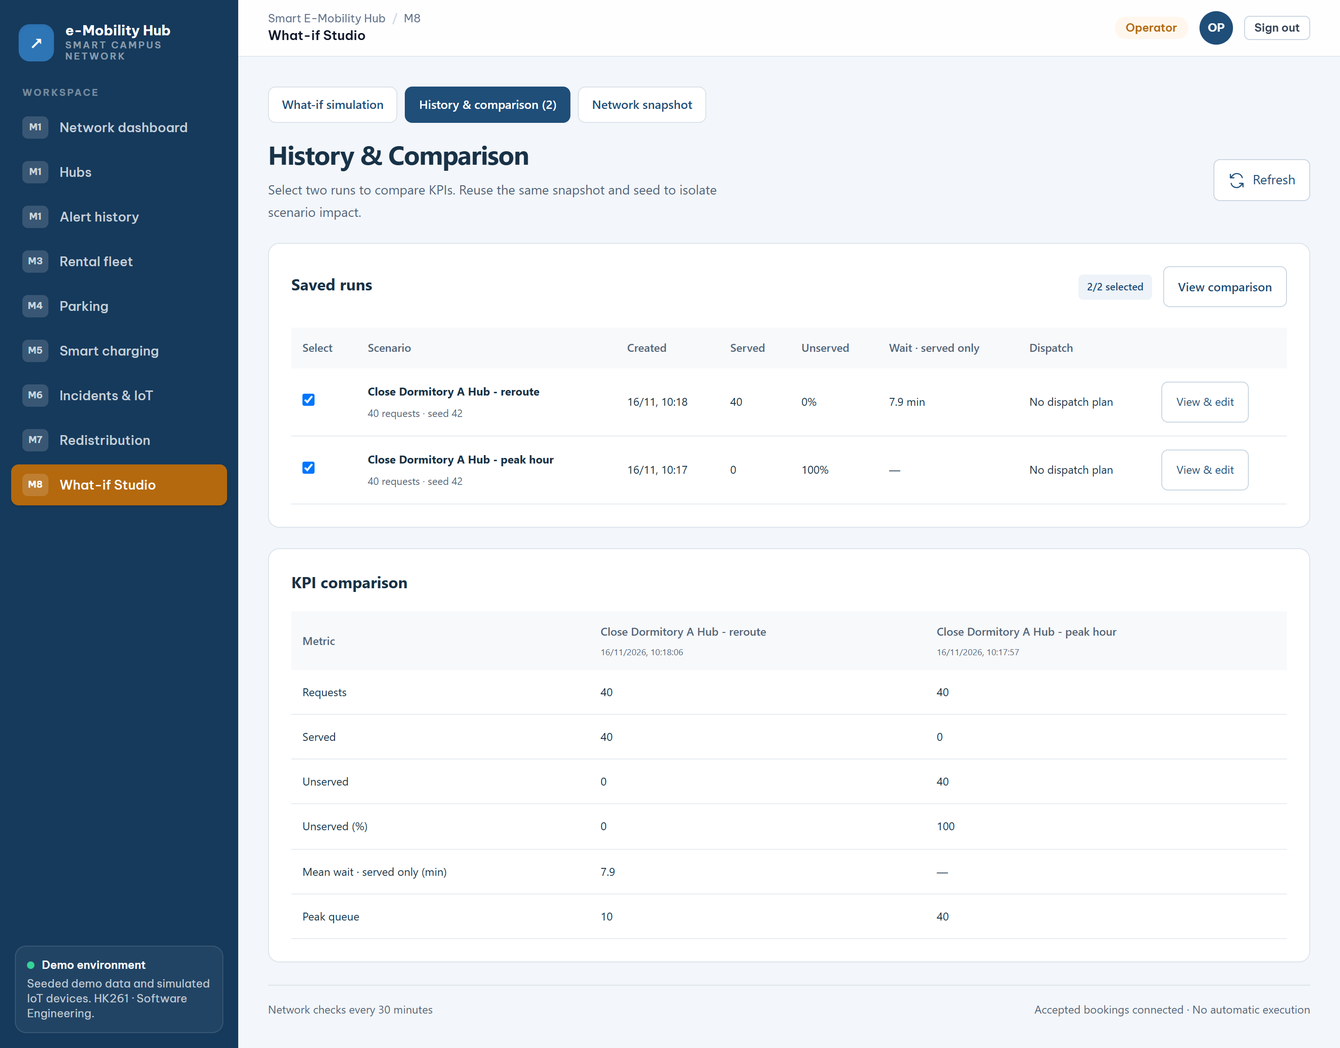
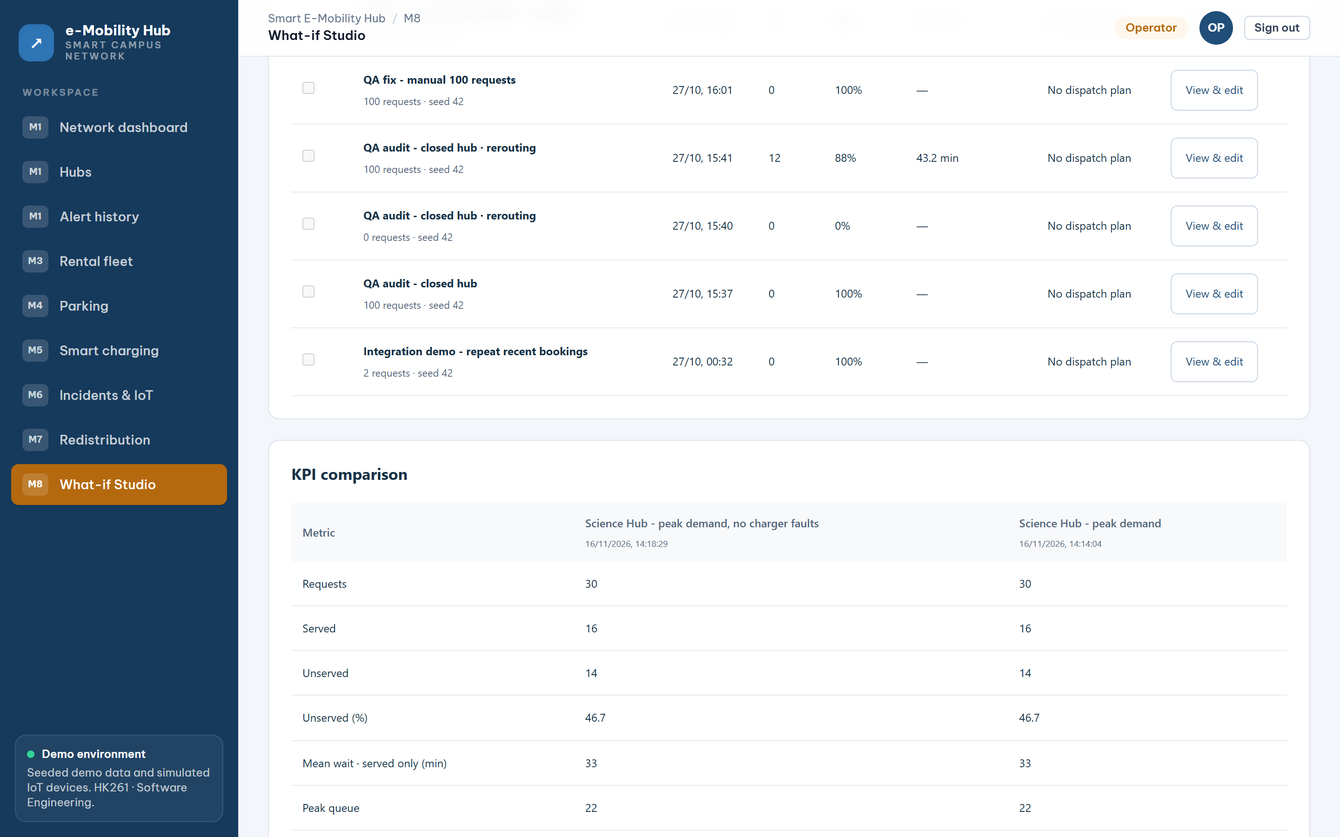
[DOCS][M8] Describe the parking and charging scenarios and refresh M8 figures
- Runbook: the three new per-hub scenarios, their KPIs and limits, the dispatch limit by
  free rental-bike spaces, the Apply flow with its states and error codes, both provider
  timeouts and the current test counts.
- module-contracts, demo script, SETUP and screenshot notes aligned with the current UI
  labels and behavior.
- Diagrams regenerated from m8.py: new HubSettings and Kpi fields, charging advice,
  parking and charging in the activity flow, proposal changes made directly in M7.
- M8 screenshots recaptured with the AI provider configured and parking and charging
  demand in the run; capture hints updated.

diff --git a/docs/tools_for_figures/python/m8/m8.py b/docs/tools_for_figures/python/m8/m8.py
@@ -3,8 +3,8 @@ sys.path.insert(0, os.path.join(os.path.dirname(os.path.abspath(__file__)), '..'
 from lib import *
 O=png_dir('m8')
 usecase(O+'m8_usecase.png','«subsystem» M8 — What-if Simulation',
- [('UC-M8-01','Prepare a scenario|(describe or edit)'),('UC-M8-06','Validate the|scenario'),('UC-M8-02','Run a simulation|on a snapshot'),
-  ('UC-M8-03','Review and compare|saved runs'),('UC-M8-04','Review recommendations|(discard / send to M7)'),('UC-M8-05','Check recent booking|volume every 30 min')],
+ [('UC-M8-01','Prepare a scenario|(rentals, parking, charging,|failed chargers)'),('UC-M8-06','Validate the|scenario'),('UC-M8-02','Run a simulation|on a snapshot'),
+  ('UC-M8-03','Review and compare|saved runs'),('UC-M8-04','Review recommendations|(discard / send dispatch to M7)'),('UC-M8-05','Check recent booking|volume every 30 min')],
  left=[('op','Operator',False),('tm','Timer',True)], right=[('ai','AI provider (optional)',True),('m7','M7 Redistribution',True),('own','M1–M4 data',True)],
  assoc=[('op','UC-M8-01'),('op','UC-M8-02'),('op','UC-M8-03'),('op','UC-M8-04'),('tm','UC-M8-05'),('ai','UC-M8-01'),('ai','UC-M8-02'),('m7','UC-M8-04'),('own','UC-M8-02'),('own','UC-M8-05')],
  rels=[('UC-M8-01','UC-M8-06','include'),('UC-M8-02','UC-M8-06','include'),('UC-M8-04','UC-M8-02','extend')], amber=('UC-M8-05',))
@@ -14,7 +14,7 @@ N['SimulationService']=klass('SimulationService','service',attrs=None,ops=['+run
 N['DispatchApplyService']=klass('DispatchApplyService','service, talks to M7',attrs=None,ops=['+apply(runId, recId, operator): Run','+discard(runId, recId, operator): Run','+sync(runs): List<Run>'])
 N['AgentPlanner']=klass('AgentPlanner','service, optional LLM tool loop',attrs=None,ops=['+extend(snapshot, scenario, previous): AgentState'])
 N['SimulationPlanTool']=klass('SimulationPlanTool','component',attrs=None,ops=['+evaluate(snapshot, scenario, actions): PlanEvaluation'])
-N['ScenarioAssistant']=klass('ScenarioAssistant','service, optional LLM (M8_LLM_*)',attrs=['-url, key, model: String'],ops=['+parse(text, snapshot): ParseResult','+validate(scenario, snapshot)','+recommend(snapshot, scenario, kpi, engine): Proposals','+toolChat(messages, tool): JsonNode'])
+N['ScenarioAssistant']=klass('ScenarioAssistant','service, optional LLM (M8_LLM_*)',attrs=['-url, key, model: String'],ops=['+parse(text, snapshot): ParseResult','+validate(scenario, snapshot)','+recommend(snapshot, scenario, kpi, engine): Proposals','+chargingAdvice(snapshot, scenario, kpi, engine): List<Recommendation>','+toolChat(messages, tool): JsonNode'])
 N['StartingFleet']=klass('StartingFleet','utility',attrs=None,ops=['~override(snapshot, startingVehicles): Snapshot'])
 N['SimulationEngine']=klass('SimulationEngine','component, pure function',attrs=None,ops=['+simulate(snapshot, scenario): EngineResult'])
 N['SnapshotProvider']=klass('SnapshotProvider','interface',attrs=None,ops=['+capture(): Snapshot'],**IFACE)
@@ -22,7 +22,7 @@ N['JdbcSnapshotProvider']=klass('JdbcSnapshotProvider','read-only, REPEATABLE_RE
 N['RedistributionRecommendations']=klass('RedistributionRecommendations','interface, shared.contracts (M7)',attrs=None,ops=['+propose(source, ref, from, to, amount, reason): String','+approve(id, operator): ApprovalResult','+decision(id): Decision','+withdraw(id, operator, reason): Decision'],**IFACE)
 N['RunStore']=klass('RunStore','JSON file, latest 200 runs',attrs=['-file: Path'],ops=['+save(run) / get(id) / list()'])
 N['NetworkMonitor']=klass('NetworkMonitor','@Scheduled every 30 min',attrs=['-state: State (volatile)'],ops=['+check()','+status(aiConfigured): Map'],**SCHED)
-N['SimulationModels']=klass('SimulationModels','immutable records',attrs=['Scenario(name, durationMins, seed, affectedHubs: HubSettings[])','HubSettings(hubId, disabled, closeFromMins, reopenAtMins,','  injectedRequests, arrivalWindowMins, tripMins, reroute, repeatBookings)','Snapshot(hubs, vehicles, deviceStates, bookingWindow, capacities, hypotheticalFleet)','Kpi(requests, served, failed, failurePercent, meanWaitMins, peakQueue, hubs)','Run(scenario, snapshot, kpi, baseline, timeline, recommendations, agent)','Recommendation(action, from, to, amount, status, projectedFailure%, dispatch)','DispatchProgress(tasks, message, m7RecommendationId)','AgentState(totalRounds, status, rounds, best)'],ops=None)
+N['SimulationModels']=klass('SimulationModels','immutable records',attrs=['Scenario(name, durationMins, seed, affectedHubs: HubSettings[])','HubSettings(hubId, disabled, closeFromMins, reopenAtMins,','  injectedRequests, arrivalWindowMins, tripMins, reroute, repeatBookings,','  parkingArrivals, parkingStayMins, chargingRequests, chargeMins, failedChargers)','Snapshot(hubs, vehicles, deviceStates, bookingWindow, capacities, hypotheticalFleet)','Kpi(requests, served, failed, failurePercent, meanWaitMins, peakQueue, hubs,','  parkingRequests, parkingServed, parkingTurnedAway,','  chargingRequests, chargingServed, chargingUnserved,','  meanChargingWaitMins, peakChargingQueue)','  +totalUnserved(): int','HubKpi(hubId, name, requests, served, failed, meanWaitMins, ..., parkingRequests,','  parkingTurnedAway, chargingRequests, chargingServed, chargingUnserved, usableChargers, ...)','Run(scenario, snapshot, kpi, baseline, timeline, recommendations, agent)','Recommendation(action: dispatch | charging_redirect, from, to, amount,','  status, projectedFailure%, dispatch)','DispatchProgress(tasks, message, m7RecommendationId)','AgentState(totalRounds, status, rounds, best)'],ops=None)
 T='hub, rental_vehicle, reservation, parking_space, redistribution_tasks, m1_resource_state'
 N['Tables']=klass(T,'tables of M1–M4, M7 (read only)',attrs=None,ops=None,**EXT)
 classdiagram(O+'m8_class.png',N,[('SimulationController','SimulationService','assoc'),('SimulationController','DispatchApplyService','assoc'),('SimulationController','NetworkMonitor','assoc'),
@@ -64,6 +64,9 @@ alt AI provider configured
 else no AI provider
   S->>A: recommend(snapshot, scenario, kpi, engine) with local rules
 end
+S->>A: chargingAdvice(snapshot, scenario, kpi, engine)
+A->>E: re-simulate with charging requests moved to another hub
+A-->>S: charging_redirect advice (display only, never applied)
 S->>R: save(run)
 S-->>OP: Run (KPI, baseline, proposals, warnings)
 OP->>C: POST /runs/:id/recommendations/:recId/apply
@@ -75,8 +78,8 @@ D->>R: save(run) as PENDING, PARTIAL or APPROVED
 OP->>C: GET /api/m8/runs (later)
 C->>D: sync(runs)
 D->>M7: decision(m7Id)
-M7-->>D: status, done and failed tasks
-D->>R: save(run) only if changed (APPLIED or DISCARDED)
+M7-->>D: status, done and failed tasks (also when the Operator decided in M7)
+D->>R: save(run) only if changed (APPROVED, PARTIAL, APPLIED or DISCARDED)
 Note over S,D: M8 never writes operational tables. M7 creates and runs the tasks
 ''', width=1900)
 
@@ -84,7 +87,7 @@ Note over S,D: M8 never writes operational tables. M7 creates and runs the tasks
 # ---------------------------------------------------------------- state: a proposal inside a saved run
 # A run is saved once; only the status of each proposal moves (DispatchApplyService follows M7's decision).
 statemachine(O+'m8_state.png',
- ['PENDING','NEEDS_REVIEW','PARTIAL','APPROVED','APPLIED','DISCARDED'],
+ ['PENDING','NEEDS_REVIEW','PARTIAL','APPROVED','APPLIED','DISCARDED',('M7decision','shape=diamond, style=filled, fillcolor="#fff1c9", color="#c9a227", fontsize=12, label="M7\\ndecision"')],
  [('PENDING','DISCARDED','discard / withdraw the M7 proposal,\\nor M7 rejected it'),
   ('PENDING','PENDING','apply / M7 could not\\ncreate a task yet'),
   ('PENDING','PARTIAL','apply / M7 created\\nsome tasks'),
@@ -95,33 +98,44 @@ statemachine(O+'m8_state.png',
   ('NEEDS_REVIEW','DISCARDED','discard, or M7 rejected'),
   ('PARTIAL','PARTIAL','apply again / more tasks'),
   ('PARTIAL','APPROVED','apply again /\\nremaining tasks created'),
-  ('APPROVED','APPLIED','list runs / every M7 task finished,\\nat least one vehicle arrived')],
+  ('APPROVED','APPLIED','list runs / every M7 task finished,\\nat least one vehicle arrived'),
+  ('PENDING','M7decision','list runs (sync): Operator\\ndecided directly in M7'),
+  ('PARTIAL','M7decision','list runs (sync)'),
+  ('NEEDS_REVIEW','M7decision','list runs (sync)'),
+  ('M7decision','APPROVED','approved'),
+  ('M7decision','PARTIAL','partly approved'),
+  ('M7decision','APPLIED','approved,\\ntasks done'),
+  ('M7decision','DISCARDED','rejected')],
  initial='PENDING', final=('APPLIED','DISCARDED'),
  extra='label=<<b>Proposal of a what-if run (M8)</b>>; labelloc=t; fontsize=16;',
  notes=['note [shape=note, style=filled, fillcolor="#fff6d5", color="#c9a227", fontname="DejaVu Sans", fontsize=11, '
         'label="Created with the run, always PENDING.\\nApply registers it with M7 (propose + approve);\\nM8 then follows M7 when runs are listed.\\nOnly dispatch proposals can be applied,\\nand not on an edited (hypothetical) fleet."];',
-        'note -> PENDING [style=dashed, arrowhead=none, color="#c9a227"];'])
+        'note -> PENDING [style=dashed, arrowhead=none, color="#c9a227"];',
+        'note2 [shape=note, style=filled, fillcolor="#fff6d5", color="#c9a227", fontname="DejaVu Sans", fontsize=11, '
+        'label="charging_redirect advice is display-only:\\nit never goes through Apply and M7 is not called.\\nIt stays PENDING until the Operator discards it\\n(PENDING -> DISCARDED)."];',
+        'note2 -> DISCARDED [style=dashed, arrowhead=none, color="#c9a227"];'])
 
 # ---------------------------------------------------------------- activity: from a description to a decision
 src=activity_header('What-if run: from a description to a decision (M8)')+f'''
 d1 [label="Describe\\nin words?", {DEC}];
 p [label="Parse: LLM if configured,\\notherwise local rules", {ACT}];
-f [label="Editable form: affected hubs,\\nclosing time, demand, rerouting", {ACT}];
+f [label="Editable form: affected hubs, closing time,\\nrental demand, rerouting, parking arrivals,\\ncharging requests, failed chargers", {ACT}];
 d2 [label="Fields valid?", {DEC}];
 d3 [label="Snapshot\\nsource?", {DEC}];
 c [label="Capture snapshot in one\\nREPEATABLE_READ read", {ACT}];
 r [label="Reuse the snapshot\\nof a saved run", {ACT}];
 m [shape=diamond, label="", width=0.3, height=0.3, style=filled, fillcolor="#ffffff"];
 fl [label="Apply edited vehicle counts\\n(optional, hypothetical fleet)", {ACT}];
-sim [label="Simulate scenario and baseline\\nminute by minute", {ACT}];
+sim [label="Simulate scenario and baseline minute by\\nminute: rentals, parking, charging queue", {ACT}];
 d5 [label="AI provider\\nconfigured?", {DEC}];
 ai [label="AI tests up to 3 dispatch plans\\nwith simulate_plan; keeps only\\nplans that reduce unserved requests", {ACT}];
-pr [label="Local rules: dispatch from a donor hub\\nthat keeps one vehicle and fits\\nrental-bike parking", {ACT}];
+pr [label="Local rules: dispatch from a donor hub\\nthat keeps one vehicle and fits rental-bike\\nparking; move rental vehicles out of a\\nparking-saturated hub", {ACT}];
+ca [label="Charging advice (display only): move charging\\nrequests to a hub with free chargers;\\nre-simulated, never applied", shape=box, style="rounded,filled", fillcolor="#fff1c9", color="#c9a227", penwidth=1.4];
 sv [label="Save the run (RunStore)", {ACT}];
-sh [label="Show KPIs, timeline, per-hub table,\\nproposals and assumptions", {ACT}];
+sh [label="Show KPIs (rentals, parking turned away,\\ncharging unserved, mean charging wait, peak\\ncharging queue), timeline, per-hub table,\\nproposals and assumptions", {ACT}];
 d4 [label="Next step?", {DEC}];
 cmp [label="History: select two runs,\\ncompare KPIs", {ACT}];
-dis [label="Proposal DISCARDED;\\nM7 proposal withdrawn", {ACT}];
+dis [label="Proposal DISCARDED; M7 proposal\\nwithdrawn if any. Charging advice\\ncan only be discarded", {ACT}];
 d6 [label="Live fleet?", {DEC}];
 ap [label="Send to M7: propose + approve;\\nM7 picks vehicles, creates tasks", {OK}];
 no [label="Refused: run again\\nwith the live fleet", {ERR}];
@@ -130,10 +144,10 @@ e {END};
 s -> d1; d1 -> p [label="yes"]; d1 -> f [label="no"]; p -> f; f -> d2; d2 -> f [label="no: field errors", constraint=false];
 d2 -> d3 [label="yes"]; d3 -> c [label="live"]; d3 -> r [label="saved run"]; c -> m; r -> m; m -> fl -> sim -> d5;
 d5 -> ai [label="yes"]; d5 -> pr [label="no"]; ai -> pr [label="provider failed,\\nno tested plan", style=dashed];
-ai -> sv; pr -> sv; sv -> sh -> d4;
+ai -> ca; pr -> ca; ca -> sv; sv -> sh -> d4;
 d4 -> f [label="edit and run again", constraint=false, style=dashed];
 d4 -> ai [label="retry AI: +3 rounds", constraint=false, style=dashed];
-d4 -> cmp [label="compare"]; d4 -> dis [label="discard"]; d4 -> d6 [label="apply"];
+d4 -> cmp [label="compare"]; d4 -> dis [label="discard"]; d4 -> d6 [label="apply (dispatch only)"];
 d6 -> ap [label="yes"]; d6 -> no [label="no"]; ap -> fw;
 cmp -> e; dis -> e; fw -> e; no -> e;
 {{rank=same; c; r}} {{rank=same; ai; pr}} {{rank=same; cmp; dis; d6}}

diff --git a/docs/runbooks/m8-local.md b/docs/runbooks/m8-local.md
@@ -21,12 +21,13 @@ https://api.openai.com/v1/chat/completions.
 Override using M8_LLM_URL, M8_LLM_KEY and M8_LLM_MODEL. Never use VITE_* for keys.
 
 The provider receives descriptions and, for recommendations, the snapshot and KPIs.
-Requests use JSON mode, bounded output and a 35-second timeout. Parameters are validated.
+Requests use JSON mode and bounded output. The timeout is 90 seconds for the responses endpoint
+(scenario extraction) and 35 seconds for chat completions (tool calls). Parameters are validated.
 Recommendations must pass resource/capacity checks and improve deterministic simulation results.
 Only dispatch proposals are recognized; rerouting stays an operator setting. AI cannot execute
 operational actions. When AI is configured, each run lets it test up to three dispatch plans with the
 simulate_plan tool on the saved snapshot; Retry adds three more rounds. Only plans that reduce
-unserved requests are kept.
+unserved requests (rental requests not served + parking turned away + unserved charging) are kept.
 Provider failures show sanitized status/error codes and fall back to labeled local rules.
 AI configured means credentials are loaded; it does not prove a call succeeded.
 A parser result marked AI confirms an actual successful provider response.
@@ -43,7 +44,21 @@ Reference: [OpenAI Structured Outputs](https://developers.openai.com/api/docs/gu
   as "Device state updates" with receive timestamps.
   These RAM observations are not transactionally synchronized with the database snapshot
   and do not overwrite authoritative M3 vehicle state in the engine.
-- Independently verified proposals and persistent Discard.
+- Independently verified proposals and persistent Discard. A proposal is kept only if it lowers the total of
+  unserved rental requests, parking turned away and unserved charging requests.
+- Per-hub parking and charging scenarios (section "Parking and charging at this hub"):
+  `parkingArrivals` and `parkingStayMins` (private vehicles arriving to park), `chargingRequests` and `chargeMins`
+  (charging sessions), `failedChargers` (chargers out of order for the whole horizon).
+  Parking, charging and failed chargers are hypothetical demand; leave the inputs at 0 to leave them out of a run.
+- Parking: each arrival takes a free space of the captured pool (used/free/total from the snapshot) and releases it after
+  the stay; with no free space it is turned away. Charging: requests queue first-come-first-served on chargers that are
+  operational, not busy and not failed.
+- KPIs added: parking requests, served and turned away; peak parking occupancy per hub; charging requests, served and
+  unserved; mean charging wait (served requests only); peak charging queue; usable chargers and charger utilization per hub.
+- The local rule can propose dispatching rental vehicles out of a parking-saturated hub. When charging requests go
+  unserved and another open hub has free chargers, the run also shows a `charging_redirect` recommendation:
+  advice to redirect charging requests to that hub. It is display only: Discard is available, Apply is refused
+  with NOT_APPLICABLE, and M5 is never changed.
 - Apply sends a dispatch proposal to M7 through `RedistributionRecommendations` (propose + approve).
   M7 picks the vehicles, checks parking and creates the tasks. Discard withdraws a pending M7 proposal.
   When runs are listed, M8 follows M7: a rejected proposal becomes DISCARDED, and an approved one
@@ -68,17 +83,37 @@ Reference: [OpenAI Structured Outputs](https://developers.openai.com/api/docs/gu
 - Only AVAILABLE vehicles with battery >=20% serve requests; full M2 reservation behavior is not modeled.
 - Accepted bookings are not total demand: rejected attempts and searches are excluded.
   Cancelled or completed bookings still count as historical accepted arrivals.
-- Each trip holds a vehicle for tripMins, then returns to its origin; no charging or battery depletion.
+- Each trip holds a vehicle for tripMins, then returns to its origin; no battery depletion.
 - A hub can be closed from a given minute and optionally reopened. Rerouting (only during a
   closure) picks available hubs by ID without travel time.
 - Requests still waiting at the horizon count as failed. Mean wait includes served requests only.
-- Parking reservations, charging schedules, dispatch travel and ongoing-trip arrivals are not modeled.
+- Parking reservations, travel time, dispatch travel and ongoing-trip arrivals are not modeled.
+- Rental trips do not change the parking pool, and charging does not change vehicle batteries.
+- Validation limits per hub: injected requests 0-10000; arrival window 1-1440 min; trip 1-240 min;
+  parking arrivals 0-10000; parking stay 0-1440 min; charging requests 0-10000; charge duration 0-480 min;
+  failed chargers 0-1000. A stay (or charge duration) of at least 1 minute is required when parking arrivals
+  (or charging requests) are set, parking arrivals need parking data for the hub in the snapshot, and failed chargers
+  cannot exceed the hub's operational chargers.
 - The baseline holds demand, seed and rerouting fixed and reopens the affected hub.
 - Dispatch projections assume vehicles moved before the run. Separate proposals are not additive.
+- Dispatch is limited by the captured free rental-bike spaces at the destination minus incoming M7 tasks.
+  Without that observation the dispatch proposal cannot be applied (RENTAL_PARKING_UNKNOWN); rerouting is unaffected.
 
 History is atomically saved in backend/.local/m8/runs.json, retaining the latest 200 runs.
 This single-process file store is temporary, pending TV4's approved M8 database schema.
 English display labels for seeded hubs do not change live Hub rows.
+
+## Applying a dispatch proposal
+
+Buttons: Review dispatch (opens a confirmation), Create M7 tasks (sends the proposal to M7),
+View M7 recommendation (opens it in M7) and Discard. Charging redirect advice shows Discard only.
+Recommendation states: PENDING (history label "Not applied"), NEEDS_REVIEW ("Needs review": the M7 approval was not
+confirmed; check M7), PARTIAL ("Partly dispatched": only some tasks were created), APPROVED ("Approved in M7"),
+APPLIED ("Completed in M7") and DISCARDED ("Discarded").
+Apply returns HTTP 409 with these codes: HYPOTHETICAL_FLEET (run used edited vehicle counts),
+DISPATCH_REVIEW_REQUIRED (another proposal of the run is NEEDS_REVIEW), NOT_APPLICABLE (not a pending dispatch)
+and RENTAL_PARKING_UNKNOWN (no rental-bike parking observation for the destination).
+Discard returns ALREADY_RESOLVED when the proposal is already resolved.
 
 ## Handoff
 
@@ -95,11 +130,17 @@ English display labels for seeded hubs do not change live Hub rows.
 
 From backend, invoke Maven with -B verify. From frontend, run npm.cmd run build.
 Tests cover repeatability/conservation, closure, rerouting, battery eligibility, zero demand,
-restart persistence, bounds, M8 roles, recommendation feasibility and M3 user-ID spoof prevention.
+restart persistence, bounds, M8 roles, recommendation feasibility, parking and charging scenarios,
+dispatch apply states and M3 user-ID spoof prevention.
+
+## Latest verification (16 November 2026)
+
+- Backend `mvn test`: 330 tests, 0 failures (92 in the M8 package, 13 test classes).
+- Frontend Vitest: 47 tests passed. `npm run build` passes.
 
 ## Local verification — 27 October 2026
 
-- Backend Maven verify passed 88 tests. V10, V11 and V20 are applied to the existing
+- Backend Maven verify passed. V10, V11 and V20 are applied to the existing
   PostgreSQL volume. No database volume was reset.
 - Frontend TypeScript and production build passed after the compact navigation and
   SockJS fixes. Browser verification covered M1 live connection, M8 booking volume,
@@ -130,18 +171,18 @@ M8 history is file-backed.
 - Draft changes mark the previous KPIs/recommendations as results from the previous run.
   Editing or changing context clears obsolete success/error notices.
 - KPI comparison scrolls within its own region; long scenario headings can wrap.
-- Dispatch projections respect the smaller of assigned-vehicle headroom and captured M1
-  free parking (also bounded by total minus used). Historical snapshots without occupancy
-  observations cannot produce new dispatch proposals. Rerouting remains available.
+- Dispatch projections respect the captured free rental-bike spaces at the destination minus
+  incoming M7 tasks. Historical snapshots without that observation cannot produce new dispatch
+  proposals or be applied. Rerouting remains available.
   This is a conservative simulation guard, not authoritative M4 parking approval.
   Previously saved recommendations retain their historical results and limitations.
 
 Regression checks: frontend scenario-draft tests; backend RecommendationTest covers a
 40-space destination with zero/one observed spaces and no assigned rentals, plus missing
-observations. M7 execution and M8 database persistence remain pending.
+observations. M8 database persistence remains pending; M7 execution is integrated (see Applying a dispatch proposal).
 
-After fixes: 89 backend tests passed; backend packaging succeeded after releasing the
-running Windows JAR lock. Five frontend regression tests and the production build passed.
+After fixes: backend packaging succeeded after releasing the running Windows JAR lock, and the
+frontend regression tests and production build passed.
 Browser checks confirmed field errors and disabled Run for invalid horizon/negative requests,
 restoration from zero-booking mode to manual 100 requests via Try this plan, and a saved
 reroute run with 100 requests / 12 served / 88 failed on the same snapshot. Editing to 500

diff --git a/docs/tools_for_figures/screenshots/README.md b/docs/tools_for_figures/screenshots/README.md
@@ -91,4 +91,4 @@ Chép các file sau vào `images/ui/` của report, đổi sang tên ở cột p
 - **Đăng nhập lỗi:** thường do sai cổng (phải là 5173) hoặc backend chưa chạy. Cổng khác thì dùng `BASE=http://localhost:5174 node capture.mjs mockup`, nhưng phải thêm cổng đó vào CORS của backend.
 - **Khổ ảnh khác:** dùng `WIDTH=1280 HEIGHT=800 npm run mockup`.
 - **Chụp tay không dùng script:** mở Chrome DevTools, bật Device toolbar, đặt khổ 1440×900, rồi Ctrl+Shift+P → *Capture screenshot*. Đặt tên và để vào đúng thư mục như bảng trên.
-- **Màn M8:** ảnh `real` cần dữ liệu có sẵn (một run đã lưu, một đề xuất điều xe). Muốn chụp lại thì chạy kịch bản ở bước 10 của `docs/demo/kich-ban-demo.md` trước.
+- **Màn M8:** ba ảnh `mockup` (`m8_whatif`, `m8_history`, `m8_network`) chụp từ giao diện, không cần dữ liệu riêng. Ba ảnh `real` cần dữ liệu có sẵn: `m8_extracted` (mô tả đã được AI hoặc luật cục bộ tách thành form), `m8_run_result` (một run đã lưu có nhu cầu đỗ xe, yêu cầu sạc và trụ sạc hỏng, AI đã cấu hình để có kế hoạch gợi ý), `m8_compare` (ít nhất hai run đã lưu). Chạy bước 10 của `docs/demo/kich-ban-demo.md` trước khi chụp; muốn có đề xuất điều xe thì để Hub Ga Metro mở.

diff --git a/docs/product/module-contracts.md b/docs/product/module-contracts.md
@@ -90,8 +90,9 @@ room, M7 turns it into `DESTINATION_FULL`; `HUB_NOT_FOUND` (404).
 
 ## A.6 Not implemented yet (tracked in the review)
 
-- M8 reads parking occupancy per Hub from the snapshot's `capacities`; its engine still estimates occupancy from
-  rental vehicles only.
+- M8 reads parking occupancy per Hub from the snapshot's `capacities`. Its parking scenario takes spaces from that
+  captured pool, but rental trips do not change the pool, and its charging scenario does not change vehicle batteries
+  or M5 schedules.
 - M8's runs are stored in a JSON file (latest 200), not in the database. Only the proposals inside a run have a
   state; the run itself has none.
 - M6 incidents (since 13/11): stored, API `/api/m6/incidents`, created automatically from failure readings

diff --git a/SETUP.md b/SETUP.md
@@ -61,6 +61,8 @@ cd ../frontend && npm install && npm run dev
 # http://localhost:5173   → đăng nhập student1 / 123456
 ```
 
+Muốn chạy riêng M8 (What-if Simulation) thì xem [docs/runbooks/m8-local.md](docs/runbooks/m8-local.md).
+
 Kiểm tra nhanh: `java -version` (21), `node -v` (20), `docker -v`.
 Chưa cài được gì thì xem [INSTALL.md](INSTALL.md).
 
